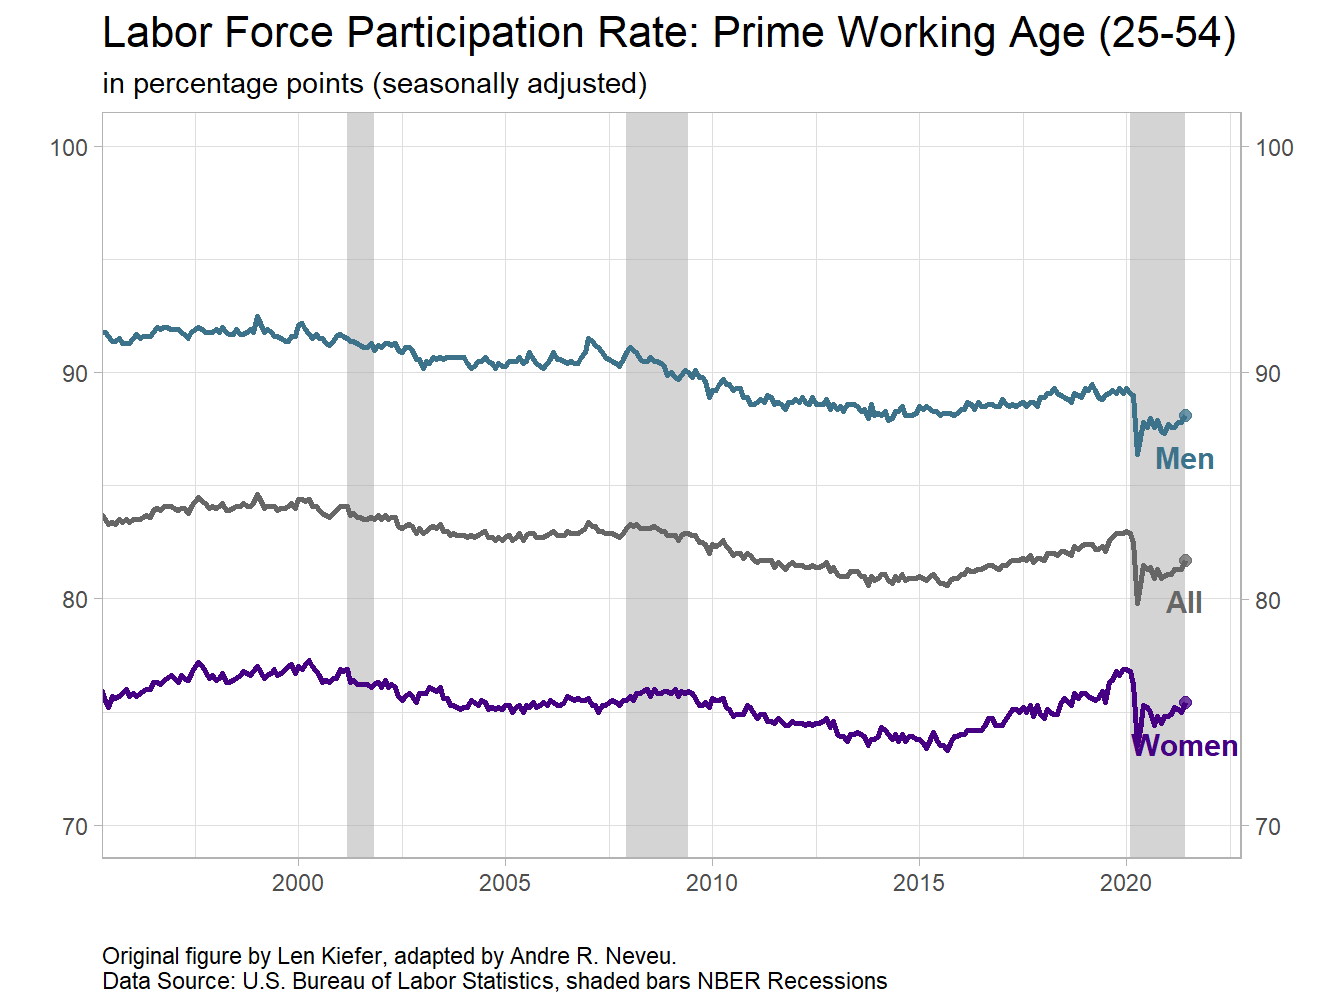
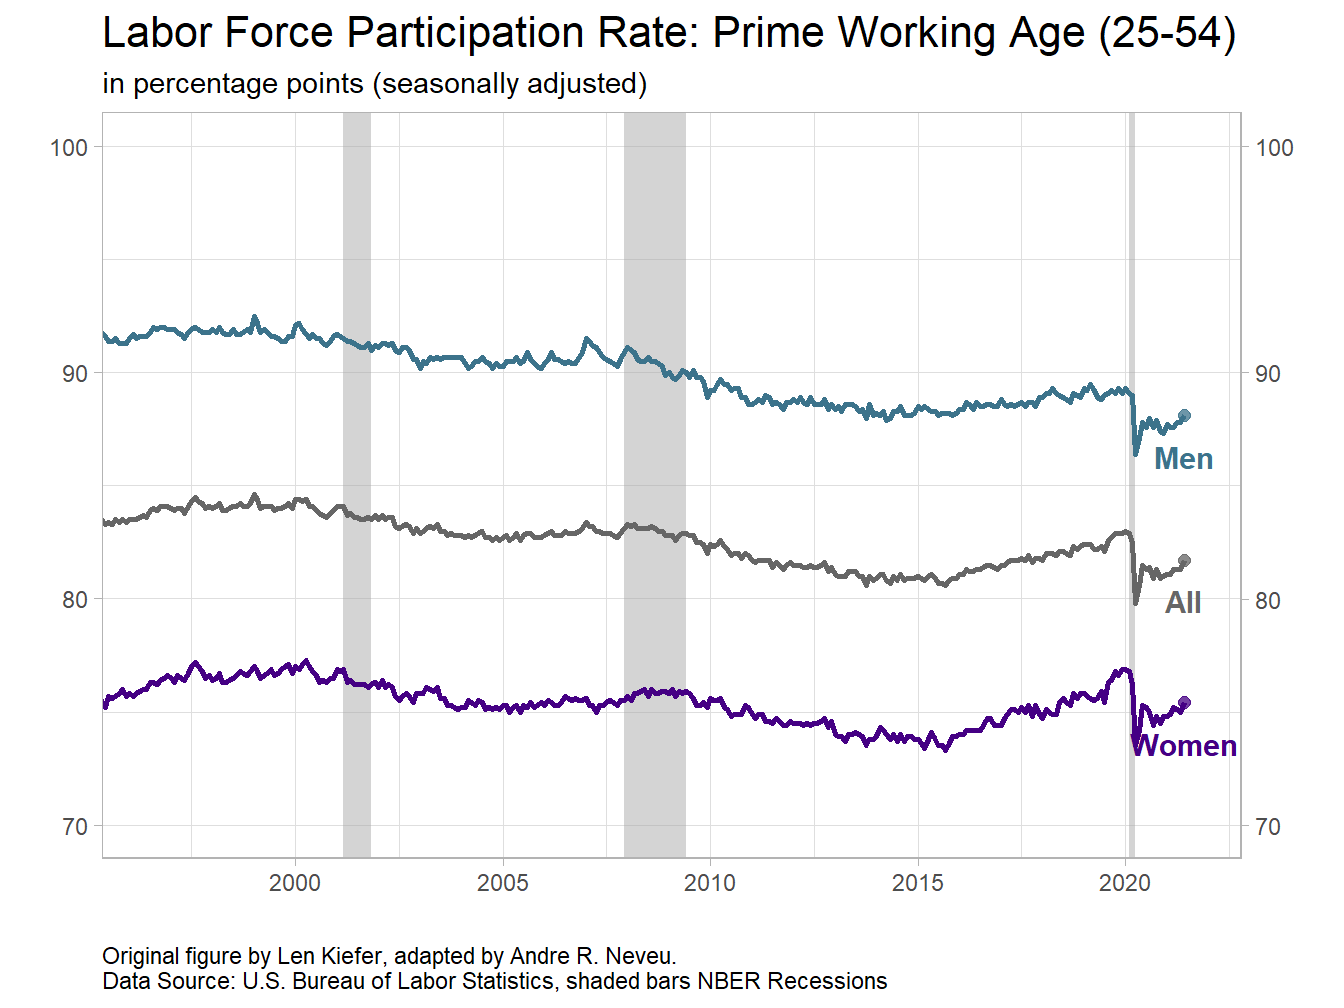
book update

diff --git a/docs/labor.html b/docs/labor.html
@@ -24,7 +24,7 @@
 <meta name="author" content="Andre R. Neveu" />
 
 
-<meta name="date" content="2021-07-21" />
+<meta name="date" content="2021-07-23" />
 
   <meta name="viewport" content="width=device-width, initial-scale=1" />
   <meta name="apple-mobile-web-app-capable" content="yes" />
@@ -188,71 +188,23 @@ Figure 3.4: Unemployment Rates Had Been Historically Low
 </div>
 <div id="long-run-trends-v.-short-run-changes" class="section level2" number="3.4">
 <h2><span class="header-section-number">3.4</span> Long-Run Trends v. Short-Run Changes</h2>
-<p>This section is temporarily under construction until the data can be properly formatted.</p>
-<!-- ```{r neat5, echo=FALSE, warning=FALSE, fig.cap='Labor Force Participation Has Plummeted', out.width='80%', fig.asp=.75, fig.align='center'} -->
-<!-- dfs<-fread("https://download.bls.gov/pub/time.series/ln/ln.series") -->
-<!-- codes<-dfs[grepl("Participation Rate", series_title) &   # use regular expression -->
-<!--              ages_code==33 &                             # only ages 25 to 54 -->
-<!--              periodicity_code =="M" &                    # only monthly frequency -->
-<!--              seasonal=="S"                               # only Seasonally adjusted -->
-<!--            ] -->
-<!-- codes$var <- c("All","Men","Women") -->
-<!-- codes <- select(codes, series_id, series_title, var) -->
-<!--       # Attempt to use API, years are not working correctly though  -->
-<!--       # payload <- list('seriesid'=codes$series_id, 'startyear'='2000','endyear'='2021') -->
-<!--       # response <- blsAPI(payload) -->
-<!--       # json <-fromJSON(response) -->
-<!--       #  -->
-<!-- # get all data (large file) -->
-<!-- df.all<-fread("https://download.bls.gov/pub/time.series/ln/ln.data.1.AllData") -->
-<!-- # filter data -->
-<!-- dfp<-df.all[series_id %in% codes$series_id,] -->
-<!-- #create date variable -->
-<!-- dfp[,month:=as.numeric(substr(dfp$period,2,3))] -->
-<!-- dfp$date<- as.Date(ISOdate(dfp$year,dfp$month,1) ) #set up date variable -->
-<!-- dfp$v<-as.numeric(dfp$value) -->
-<!-- # join on variable names, drop unused variables, convert to data.table -->
-<!-- left_join(dfp, select(codes, series_id,series_title,var), by="series_id") %>%  select(series_id,series_title,var,date,v) %>% data.table() -> dfp -->
-<!-- ggplot(data=dfp, aes(x=date,y=v,color=var, label=var))+ -->
-<!--   geom_rect(data=recessions.df, inherit.aes=F, aes(xmin=Peak, xmax=Trough, ymin=-Inf, ymax=+Inf), fill='darkgray', alpha=0.5) + -->
-<!--   geom_line(size=1.05)+ -->
-<!--   geom_point(data=filter(dfp,date==max(dfp$date)),size=2,alpha=0.75)+ -->
-<!--   geom_text(data=filter(dfp,date==max(dfp$date)),fontface="bold",size=4,nudge_y=-1.8)+ -->
-<!--   scale_x_date(date_breaks="5 years",date_labels="%Y")+ -->
-<!--   scale_y_continuous(sec.axis=dup_axis())+ -->
-<!--   #scale_color_mycol(palette="main",discrete=T,name="Labor force participation rate (%)")+ -->
-<!--   theme_light() + -->
-<!--   theme(legend.position="none", -->
-<!--         plot.caption=element_text(hjust=0), -->
-<!--         plot.title=element_text(size=16,color="black"))+ -->
-<!--   labs(x="",y="",title="Labor Force Participation Rate: Prime Working Age (25-54)", -->
-<!--        subtitle="in percentage points (seasonally adjusted)", -->
-<!--        caption="Original figure by Len Kiefer, adapted by Andre R. Neveu. \nData Source: U.S. Bureau of Labor Statistics, shaded bars NBER Recessions") + -->
-<!--     scale_color_manual(values=c("#666666","#3C738B","#450084"),name="Group") -->
-<!-- ``` -->
-<!-- ```{r neat6, echo=FALSE, warning=FALSE, fig.cap='The Change is Simiilar Across Gender', out.width='80%', fig.asp=.75, fig.align='center'} -->
-<!-- ggplot(data=dfp, aes(x=date,y=v,color=var, label=var))+ -->
-<!--   geom_rect(data=recessions.df, inherit.aes=F, aes(xmin=Peak, -->
-<!--     xmax=Trough, ymin=-Inf, ymax=+Inf), fill='darkgray', alpha=0.5) + -->
-<!--   geom_line(size=1.05)+ -->
-<!--   geom_point(data=filter(dfp,date==max(dfp$date)),size=2,alpha=0.75)+ -->
-<!--   geom_text(data=filter(dfp,date==max(dfp$date)),fontface="bold",size=4,nudge_y=-1.8)+ -->
-<!--   scale_x_date(date_breaks="5 years",date_labels="%Y")+ -->
-<!--   scale_y_continuous(sec.axis=dup_axis())+ -->
-<!--   theme_light() +  -->
-<!--   theme(legend.position="none", -->
-<!--         plot.caption=element_text(hjust=0), -->
-<!--         plot.title=element_text(size=16,color="black"))+ -->
-<!--   labs(x="",y="",title="Labor Force Participation Rate: Prime Working Age (25-54)", -->
-<!--        subtitle="in percentage points (seasonally adjusted)", -->
-<!--        caption="Original figure by Len Kiefer, adapted by Andre R. Neveu. \nData Source: U.S. Bureau of Labor Statistics, shaded bars NBER Recessions") + -->
-<!--     coord_cartesian(xlim=c(startdate,enddate),ylim=c(70,100)) + -->
-<!--     scale_color_manual(values=c("#666666","#3C738B","#450084"),name="Group") -->
-<!-- ``` -->
+<p>Over time the percentage of men of prime working age (25-54) has fallen, while for women the rate has risen quite significantly. We can see that in the short run there has been a rather large negative shock to participation in the labor force due to the COVID-19 pandemic. This crisis impacted both men and women. A bigger change has appeared in the employment to population ratio which is now at only a level of 58%, nearly 3% lower than before the COVID-19 pandemic began. This is the lowest the employment-to-population ratio has been since 1983, a period before millions of women entered the labor force.</p>
+<div class="figure" style="text-align: center"><span id="fig:neat5"></span>
+<img src="econ200-book_files/figure-html/neat5-1.png" alt="Labor Force Participation Has Plummeted" width="80%" />
+<p class="caption">
+Figure 3.5: Labor Force Participation Has Plummeted
+</p>
+</div>
+<div class="figure" style="text-align: center"><span id="fig:neat6"></span>
+<img src="econ200-book_files/figure-html/neat6-1.png" alt="The Change is Simiilar Across Gender" width="80%" />
+<p class="caption">
+Figure 3.6: The Change is Simiilar Across Gender
+</p>
+</div>
 <div class="figure" style="text-align: center"><span id="fig:neat7"></span>
 <img src="econ200-book_files/figure-html/neat7-1.png" alt="Expectedly, the Percentage of All People Employed Has Fallen" width="80%" />
 <p class="caption">
-Figure 3.5: Expectedly, the Percentage of All People Employed Has Fallen
+Figure 3.7: Expectedly, the Percentage of All People Employed Has Fallen
 </p>
 </div>
 

diff --git a/docs/index.html b/docs/index.html
@@ -24,7 +24,7 @@
 <meta name="author" content="Andre R. Neveu" />
 
 
-<meta name="date" content="2021-07-21" />
+<meta name="date" content="2021-07-23" />
 
   <meta name="viewport" content="width=device-width, initial-scale=1" />
   <meta name="apple-mobile-web-app-capable" content="yes" />
@@ -146,7 +146,7 @@ div.csl-indent {
 <h1 class="title">Materials for Macroeconomics</h1>
 <h2 class="subtitle"><em>Intro, Intermediate, and Advanced</em></h2>
 <p class="author"><em>Andre R. Neveu</em></p>
-<p class="date" style="margin-top: 1.5em;"><em>2021-07-21</em></p>
+<p class="date" style="margin-top: 1.5em;"><em>2021-07-23</em></p>
 </div>
 <div id="preface" class="section level1 unnumbered">
 <h1>Preface</h1>

diff --git a/docs/intro.html b/docs/intro.html
@@ -24,7 +24,7 @@
 <meta name="author" content="Andre R. Neveu" />
 
 
-<meta name="date" content="2021-07-21" />
+<meta name="date" content="2021-07-23" />
 
   <meta name="viewport" content="width=device-width, initial-scale=1" />
   <meta name="apple-mobile-web-app-capable" content="yes" />
@@ -287,7 +287,7 @@ Figure 1.3: Travel Collapses in 2020
 </tr>
 <tr class="odd">
 <td align="left">2021-07-01</td>
-<td align="right">360</td>
+<td align="right">419</td>
 </tr>
 </tbody>
 </table>

diff --git a/docs/inflation.html b/docs/inflation.html
@@ -24,7 +24,7 @@
 <meta name="author" content="Andre R. Neveu" />
 
 
-<meta name="date" content="2021-07-21" />
+<meta name="date" content="2021-07-23" />
 
   <meta name="viewport" content="width=device-width, initial-scale=1" />
   <meta name="apple-mobile-web-app-capable" content="yes" />

diff --git a/docs/money.html b/docs/money.html
@@ -24,7 +24,7 @@
 <meta name="author" content="Andre R. Neveu" />
 
 
-<meta name="date" content="2021-07-21" />
+<meta name="date" content="2021-07-23" />
 
   <meta name="viewport" content="width=device-width, initial-scale=1" />
   <meta name="apple-mobile-web-app-capable" content="yes" />

diff --git a/docs/production.html b/docs/production.html
@@ -24,7 +24,7 @@
 <meta name="author" content="Andre R. Neveu" />
 
 
-<meta name="date" content="2021-07-21" />
+<meta name="date" content="2021-07-23" />
 
   <meta name="viewport" content="width=device-width, initial-scale=1" />
   <meta name="apple-mobile-web-app-capable" content="yes" />

diff --git a/docs/references.html b/docs/references.html
@@ -24,7 +24,7 @@
 <meta name="author" content="Andre R. Neveu" />
 
 
-<meta name="date" content="2021-07-21" />
+<meta name="date" content="2021-07-23" />
 
   <meta name="viewport" content="width=device-width, initial-scale=1" />
   <meta name="apple-mobile-web-app-capable" content="yes" />
